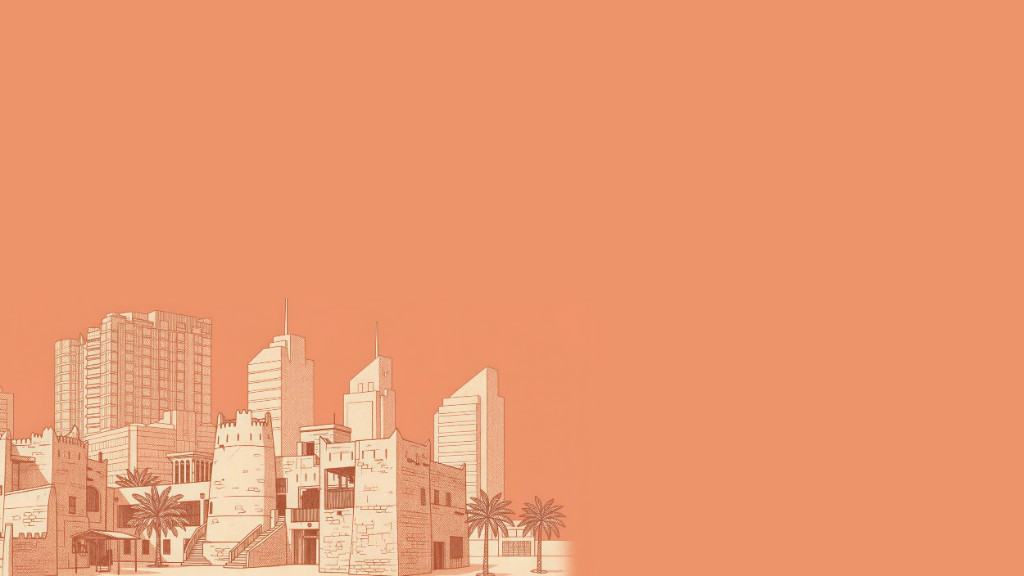
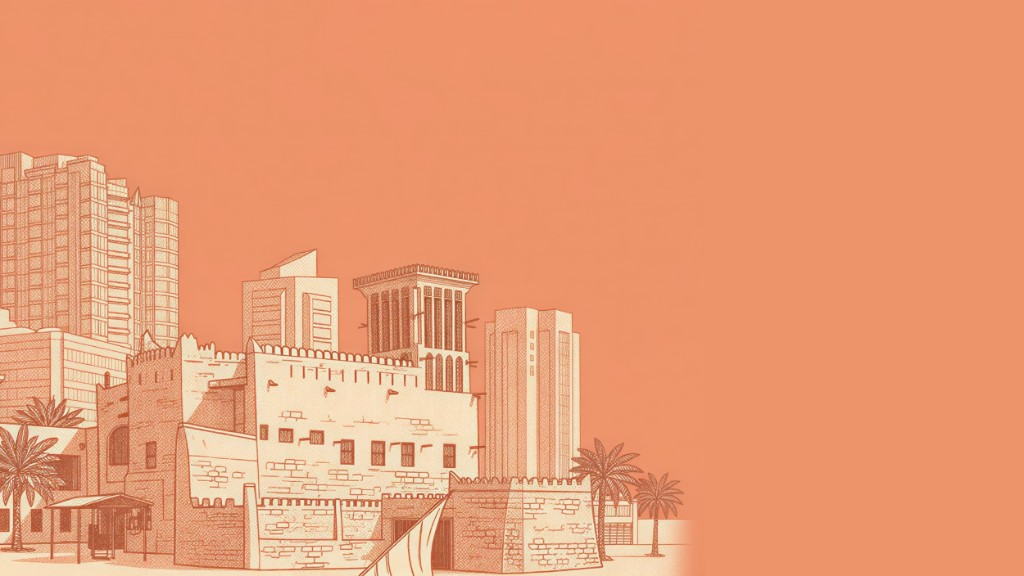
Enhance builder card interactivity and visual effects
- Updated CSS for the builder card to introduce 3D tilt effects, improved hover states, and refined animations for a more engaging user experience.
- Added JavaScript functions to track pointer movements and reset tilt effects, enhancing interactivity based on user actions.
- Incremented version numbers for CSS and JavaScript files to reflect the latest updates.

These changes aim to improve the overall aesthetic and functionality of the builder card, making it more dynamic and user-friendly.

Changed region(s): [[0.0, 0.25, 0.6875, 1.0]]

diff --git a/static/css/builder-card.css b/static/css/builder-card.css
@@ -152,6 +152,11 @@ html.kv-builder-open body {
 }
 
 .kv-card {
+  --kv-tilt-x: 0deg;
+  --kv-tilt-y: 0deg;
+  --kv-scale: 1;
+  --kv-shine-x: 50%;
+  --kv-shine-y: 50%;
   display: block;
   width: 100%;
   height: 100%;
@@ -163,9 +168,25 @@ html.kv-builder-open body {
   border-radius: 20px;
   outline: none;
   box-shadow: 0 28px 64px rgba(0, 0, 0, 0.22);
+  transform: rotateX(var(--kv-tilt-x)) rotateY(var(--kv-tilt-y)) scale(var(--kv-scale));
+  transform-style: preserve-3d;
+  transition: box-shadow 0.25s ease;
   -webkit-appearance: none;
   appearance: none;
   -webkit-tap-highlight-color: transparent;
+  will-change: transform;
+}
+
+.kv-card.is-untilting {
+  transition: transform 0.45s cubic-bezier(0.22, 0.8, 0.28, 1), box-shadow 0.45s ease;
+}
+
+.kv-card.is-tracking {
+  transition: none;
+}
+
+.kv-card:hover {
+  box-shadow: 0 34px 72px rgba(80, 32, 14, 0.28), 0 18px 40px rgba(0, 0, 0, 0.22);
 }
 
 .kv-card:focus,
@@ -236,25 +257,30 @@ html.kv-builder-open body {
   top: 0;
   right: 0;
   bottom: 0;
-  z-index: 1;
+  z-index: 3;
   display: flex;
   flex-direction: column;
   align-items: flex-start;
   justify-content: center;
   width: min(54%, 19rem);
   padding: 7% 7% 8% 2%;
-  color: #fffaf7;
+  color: #fae0c2;
   text-align: left;
   font-family: var(--font-sans, -apple-system, BlinkMacSystemFont, "SF Pro Text", system-ui, sans-serif);
 }
 
 .kv-card-wordmark {
   display: block;
+  width: 7.4rem;
   height: 20px;
-  width: auto;
   margin-bottom: 1.15rem;
-  filter: brightness(0) invert(1);
-  opacity: 0.96;
+  padding: 0;
+  border: 0;
+  background-color: #fae0c2;
+  -webkit-mask: url("../images/kynvera/kynvera-wordmark.png") left center / contain no-repeat;
+  mask: url("../images/kynvera/kynvera-wordmark.png") left center / contain no-repeat;
+  filter: none;
+  opacity: 1;
 }
 
 .kv-card-name {
@@ -262,6 +288,7 @@ html.kv-builder-open body {
   font-weight: 750;
   letter-spacing: -0.038em;
   line-height: 1.08;
+  color: #fae0c2;
 }
 
 .kv-card-role,
@@ -270,7 +297,8 @@ html.kv-builder-open body {
   font-weight: 650;
   letter-spacing: 0.16em;
   text-transform: uppercase;
-  opacity: 0.88;
+  color: #fae0c2;
+  opacity: 0.92;
 }
 
 .kv-card-role {
@@ -286,7 +314,8 @@ html.kv-builder-open body {
   width: 2.1rem;
   height: 1px;
   margin: 0.95rem 0 0.85rem;
-  background: rgba(255, 250, 247, 0.55);
+  background: #fae0c2;
+  opacity: 0.7;
 }
 
 .kv-card-mail {
@@ -295,16 +324,77 @@ html.kv-builder-open body {
   letter-spacing: 0.01em;
   line-height: 1.35;
   word-break: break-word;
+  color: #fae0c2;
   opacity: 0.95;
 }
 
 .kv-card-shine {
-  display: none;
+  position: absolute;
+  inset: 0;
+  z-index: 2;
+  pointer-events: none;
+  border-radius: inherit;
+  background: radial-gradient(
+    420px circle at var(--kv-shine-x) var(--kv-shine-y),
+    rgba(255, 248, 236, 0.5) 0%,
+    rgba(250, 224, 194, 0.16) 26%,
+    transparent 58%
+  );
+  opacity: 0;
+  mix-blend-mode: soft-light;
+  transition: opacity 0.22s ease;
+}
+
+.kv-card:hover .kv-card-shine,
+.kv-card.is-tracking .kv-card-shine {
+  opacity: 1;
+}
+
+.kv-card-gleam {
+  position: absolute;
+  inset: 0;
+  z-index: 2;
+  pointer-events: none;
+  border-radius: inherit;
+  background: linear-gradient(
+    115deg,
+    transparent 34%,
+    rgba(255, 250, 240, 0.34) 48%,
+    transparent 62%
+  );
+  background-size: 220% 100%;
+  background-position: 120% 0;
+  animation: kv-card-gleam 5.2s ease-in-out infinite;
+  mix-blend-mode: soft-light;
+}
+
+.kv-card:hover .kv-card-gleam,
+.kv-card.is-tracking .kv-card-gleam {
+  animation-duration: 1.7s;
+}
+
+@keyframes kv-card-gleam {
+  0% { background-position: 120% 0; }
+  55%, 100% { background-position: -45% 0; }
 }
 
 @media (prefers-reduced-motion: reduce) {
+  .kv-card,
+  .kv-card.is-untilting,
+  .kv-card.is-tracking {
+    transform: none;
+    transition: none;
+  }
+
   .kv-card-inner {
     transition: none;
+  }
+
+  .kv-card-gleam,
+  .kv-card-shine {
+    animation: none;
+    background: none;
+    opacity: 0;
   }
 }
 
@@ -319,6 +409,7 @@ html.kv-builder-open body {
   }
 
   .kv-card-wordmark {
+    width: 6.1rem;
     height: 16px;
     margin-bottom: 0.7rem;
   }

diff --git a/static/js/builder-card.js b/static/js/builder-card.js
@@ -50,9 +50,46 @@
       return !modal.hidden;
     }
 
+    function prefersReducedMotion() {
+      return window.matchMedia && window.matchMedia('(prefers-reduced-motion: reduce)').matches;
+    }
+
+    function canTrackPointer() {
+      return window.matchMedia && window.matchMedia('(hover: hover) and (pointer: fine)').matches;
+    }
+
+    function resetTilt() {
+      card.classList.remove('is-tracking');
+      card.classList.add('is-untilting');
+      card.style.setProperty('--kv-tilt-x', '0deg');
+      card.style.setProperty('--kv-tilt-y', '0deg');
+      card.style.setProperty('--kv-scale', '1');
+      card.style.setProperty('--kv-shine-x', '50%');
+      card.style.setProperty('--kv-shine-y', '50%');
+    }
+
+    function trackPointer(e) {
+      if (!isOpen() || prefersReducedMotion() || !canTrackPointer()) return;
+      var rect = card.getBoundingClientRect();
+      if (!rect.width || !rect.height) return;
+      var px = Math.max(0, Math.min(1, (e.clientX - rect.left) / rect.width));
+      var py = Math.max(0, Math.min(1, (e.clientY - rect.top) / rect.height));
+      var tiltX = (0.5 - py) * 12;
+      var tiltY = (px - 0.5) * 16;
+      if (card.classList.contains('is-flipped')) tiltY = -tiltY;
+      card.classList.remove('is-untilting');
+      card.classList.add('is-tracking');
+      card.style.setProperty('--kv-tilt-x', tiltX.toFixed(2) + 'deg');
+      card.style.setProperty('--kv-tilt-y', tiltY.toFixed(2) + 'deg');
+      card.style.setProperty('--kv-scale', '1.03');
+      card.style.setProperty('--kv-shine-x', (px * 100).toFixed(2) + '%');
+      card.style.setProperty('--kv-shine-y', (py * 100).toFixed(2) + '%');
+    }
+
     function setFlipped(on) {
       card.classList.toggle('is-flipped', !!on);
       card.setAttribute('aria-pressed', on ? 'true' : 'false');
+      resetTilt();
     }
 
     function clearPin() {
@@ -108,6 +145,9 @@
     modal.querySelectorAll('[data-close-builder-card]').forEach(function (el) {
       el.addEventListener('click', closeCard);
     });
+
+    card.addEventListener('pointermove', trackPointer);
+    card.addEventListener('pointerleave', resetTilt);
 
     card.addEventListener('click', function (e) {
       e.preventDefault();

diff --git a/templates/partials/builder_card.html b/templates/partials/builder_card.html
@@ -1,5 +1,5 @@
 {# Digital visiting card — opened from “Who built this?” #}
-<link rel="stylesheet" href="{{ url_for('static', filename='css/builder-card.css') }}?v=4">
+<link rel="stylesheet" href="{{ url_for('static', filename='css/builder-card.css') }}?v=6">
 
 <div class="kv-builder-modal" id="kvBuilderModal" hidden role="dialog" aria-modal="true" aria-labelledby="kvBuilderTitle">
   <div class="kv-builder-backdrop" data-close-builder-card></div>
@@ -16,6 +16,8 @@
               width="1400"
               height="787"
               decoding="async">
+            <span class="kv-card-gleam" aria-hidden="true"></span>
+            <span class="kv-card-shine" aria-hidden="true"></span>
           </span>
           <span class="kv-card-face kv-card-back">
             <img
@@ -25,13 +27,10 @@
               width="1024"
               height="576"
               decoding="async">
+            <span class="kv-card-gleam" aria-hidden="true"></span>
+            <span class="kv-card-shine" aria-hidden="true"></span>
             <span class="kv-card-back-inner">
-              <img
-                src="{{ url_for('static', filename='images/kynvera/kynvera-wordmark.png') }}"
-                alt=""
-                class="kv-card-wordmark"
-                width="160"
-                height="40">
+              <span class="kv-card-wordmark" aria-hidden="true"></span>
               <span class="kv-card-name">Arshith Swaminath</span>
               <span class="kv-card-role">Product Developer</span>
               <span class="kv-card-place">Ajman</span>
@@ -44,4 +43,4 @@
     </div>
   </div>
 </div>
-<script src="{{ url_for('static', filename='js/builder-card.js') }}?v=4" defer></script>
+<script src="{{ url_for('static', filename='js/builder-card.js') }}?v=6" defer></script>
